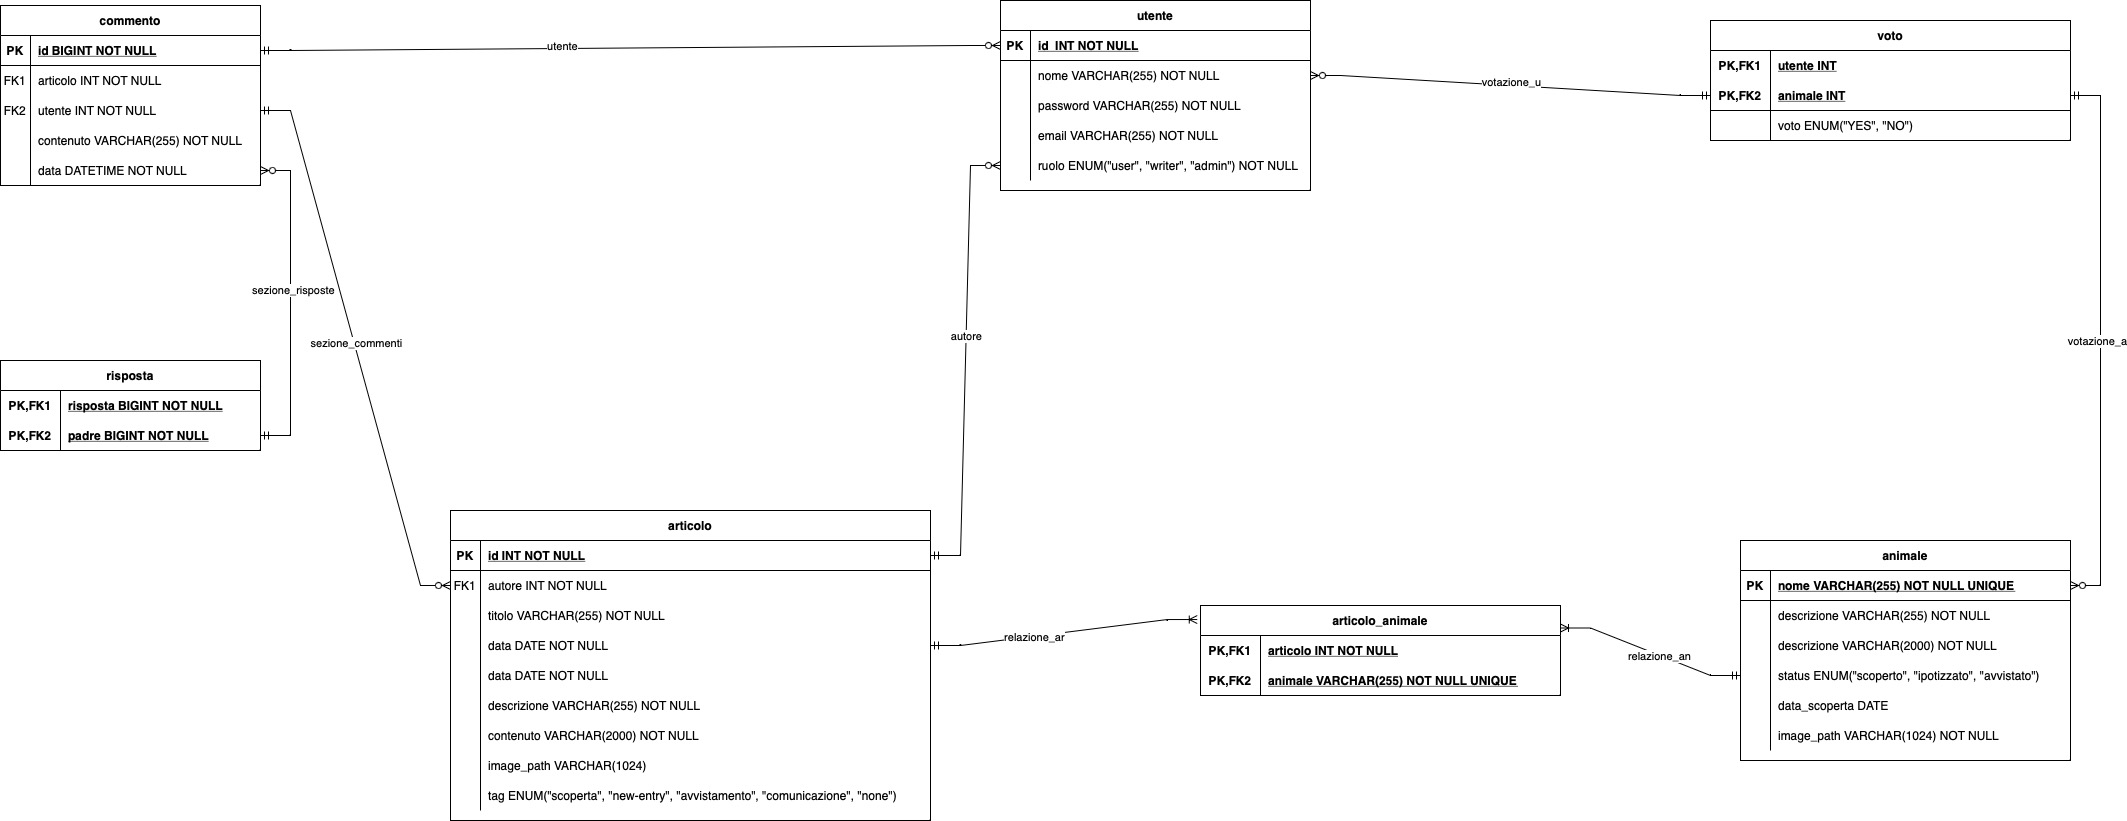
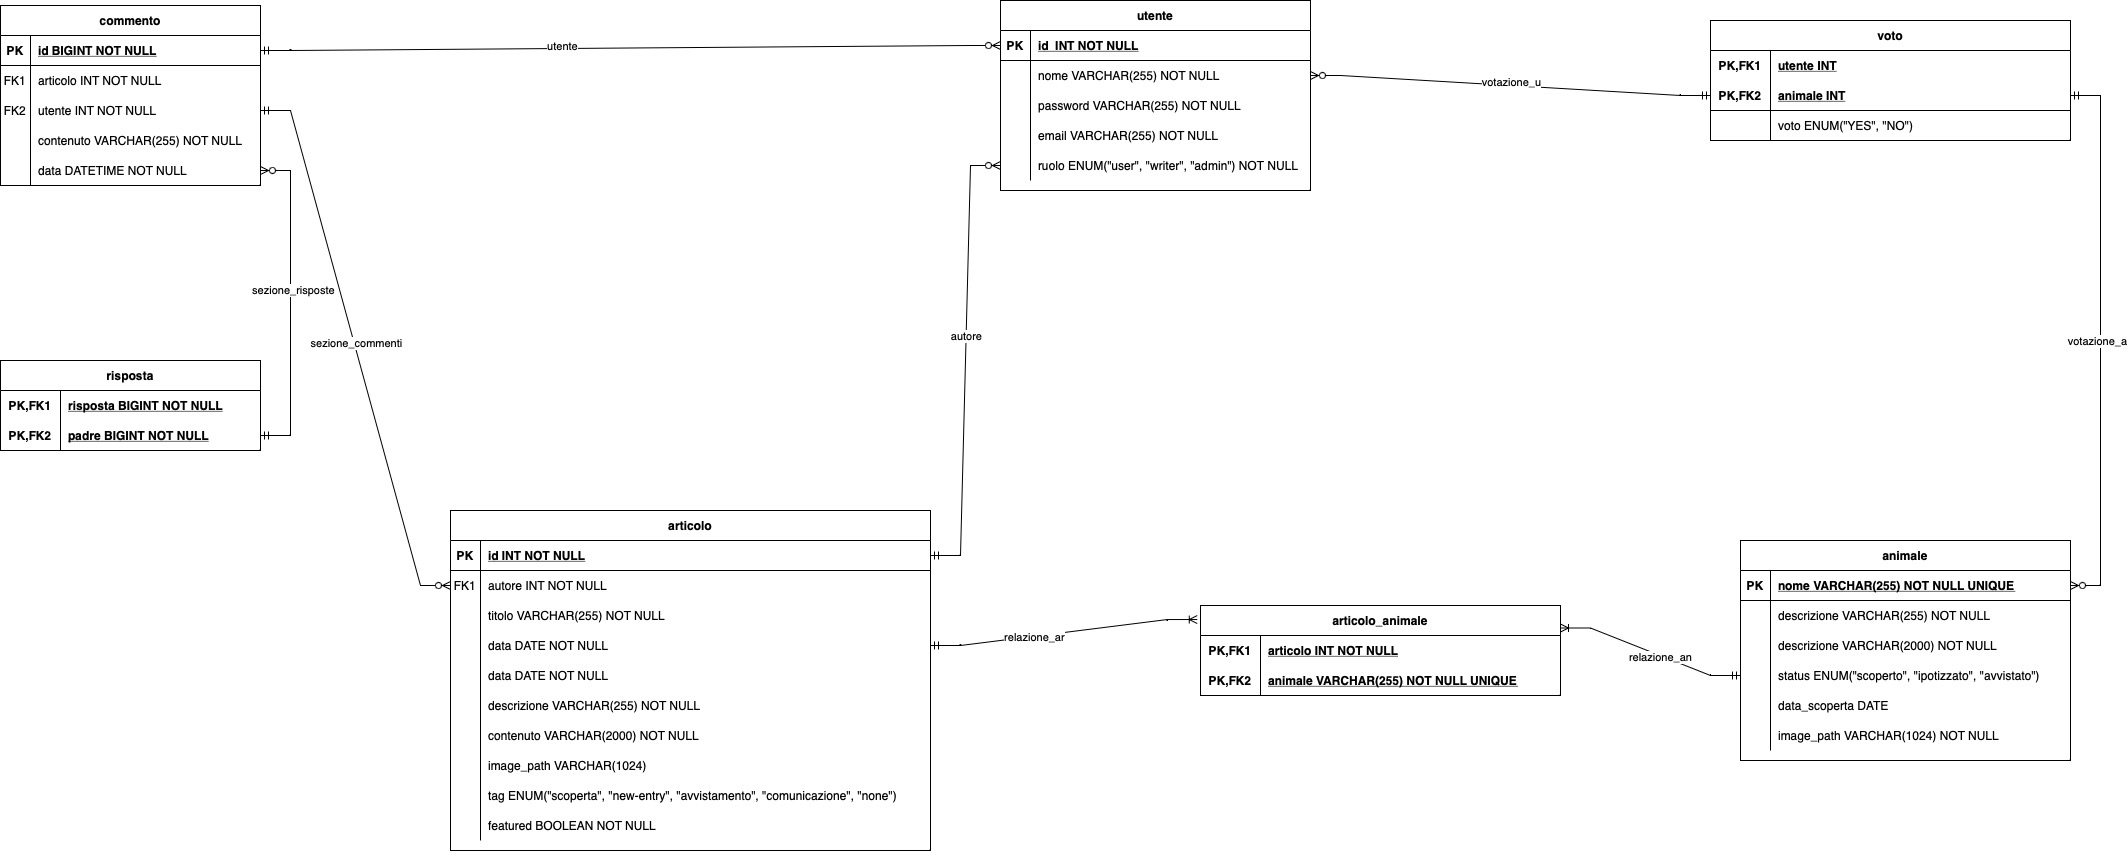
modifiche db

diff --git a/DOCUMENTAZIONE/template/src/struttura_db.tex b/DOCUMENTAZIONE/template/src/struttura_db.tex
@@ -20,6 +20,7 @@
             \item contenuto
             \item immagine
             \item tag [\textbf{scoperta}, \textbf{new-entry}, \textbf{avvistamento}, \textbf{comunicazione}, \textbf{none}]
+            \item featured
         \end{itemize}
 
         \item \textbf{articolo\_animale}:
@@ -54,7 +55,7 @@
         \item \textbf{risposta}
         \begin{itemize}
             \item \underline{risposta} (risposta.risposta $\rightarrow$ commento.id)
-            \item \underline{commento} (risposta.commento $\rightarrow$ commento.id)
+            \item \underline{padre} (risposta.padre $\rightarrow$ commento.id)
         \end{itemize}
 
         \item \textbf{voto}:
@@ -71,5 +72,6 @@
             \item descrizione
             \item data\_scoperta
             \item immagine
+            \item status [\textbf{scoperto}, \textbf{ipotizzato}, \textbf{avvistato}]
         \end{itemize}
     \end{itemize}
